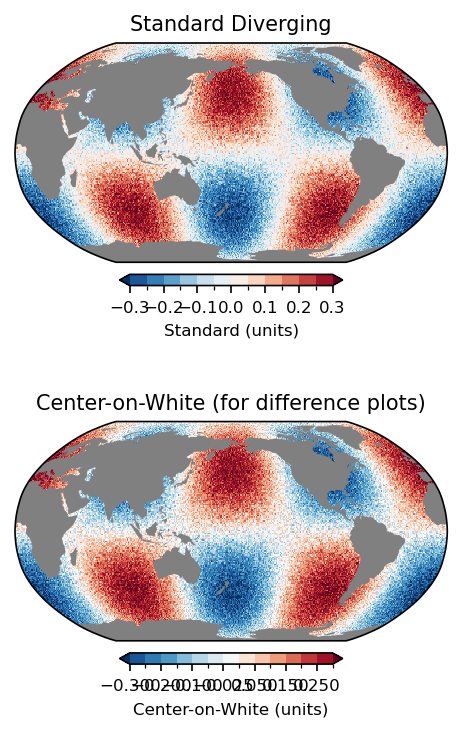
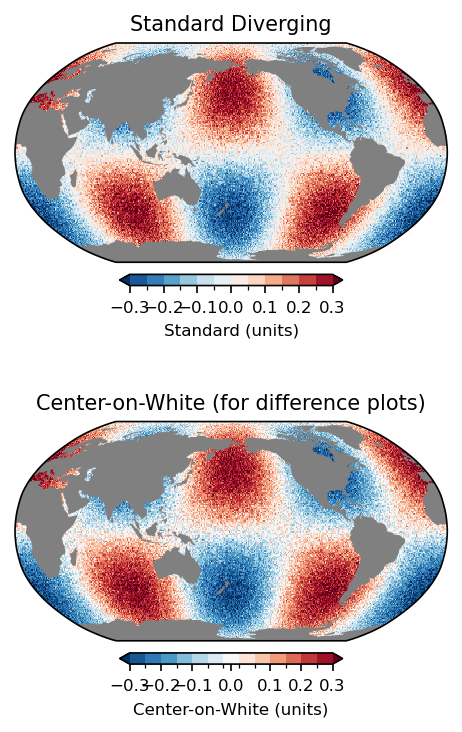
Auto-thin colorbar tick labels to prevent overlap
Add _thin_colorbar_ticks() helper that reduces displayed ticks to a
maximum count (default 7) using evenly-spaced values across the boundary
range for BoundaryNorm colorbars. Called automatically after colorbar
creation in add_colorbar() and bottom_colorbar(). Users can override
via max_ticks kwarg or disable with max_ticks=None.

Update guide figure scripts to use climplot.add_colorbar() instead of
direct plt.colorbar() calls and regenerate affected images.

Changed region(s): [[0.2424, 0.9016, 0.7576, 0.9617]]

diff --git a/src/climplot/panels.py b/src/climplot/panels.py
@@ -139,6 +139,36 @@ def add_panel_labels(
         )
 
 
+def _thin_colorbar_ticks(cbar, max_ticks=7):
+    """Reduce colorbar ticks to at most *max_ticks* evenly-spaced values.
+
+    The auto-generated ticks are checked first; if fewer than
+    *max_ticks* are present they are left untouched.  Otherwise, for
+    ``BoundaryNorm`` colorbars, tick positions are replaced with
+    *max_ticks* values evenly spaced between the first and last
+    boundary (rounded to remove floating-point noise).  For other norms,
+    auto-generated ticks are thinned by selecting evenly-spaced indices.
+    """
+    ticks = cbar.get_ticks()
+    if len(ticks) < max_ticks:
+        return
+
+    norm = cbar.mappable.norm
+    if hasattr(norm, "boundaries"):
+        boundaries = np.asarray(norm.boundaries)
+        # Use linspace to get clean, evenly-spaced values across the range
+        subset = np.linspace(boundaries[0], boundaries[-1], max_ticks)
+        # Round to remove floating-point noise (e.g. 5.55e-17 → 0.0)
+        span = abs(boundaries[-1] - boundaries[0])
+        decimals = max(0, int(-np.floor(np.log10(span / max_ticks))) + 2)
+        subset = np.round(subset, decimals)
+    else:
+        indices = np.round(np.linspace(0, len(ticks) - 1, max_ticks)).astype(int)
+        subset = ticks[indices]
+
+    cbar.set_ticks(subset)
+
+
 def add_colorbar(
     mappable,
     ax: plt.Axes,
@@ -175,6 +205,8 @@ def add_colorbar(
     >>> cs = ax.pcolormesh(lon, lat, data)
     >>> cbar = climplot.add_colorbar(cs, ax, 'Temperature (K)')
     """
+    max_ticks = kwargs.pop("max_ticks", 7)
+
     if orientation == "horizontal":
         cbar_kwargs = {"orientation": "horizontal", "pad": 0.05, "fraction": 0.046}
     else:
@@ -184,6 +216,9 @@ def add_colorbar(
     cbar = plt.colorbar(mappable, ax=ax, extend=extend, **cbar_kwargs)
     cbar.set_label(label, fontsize=8)
     cbar.ax.tick_params(labelsize=8)
+
+    if max_ticks is not None:
+        _thin_colorbar_ticks(cbar, max_ticks)
 
     return cbar
 
@@ -226,6 +261,8 @@ def bottom_colorbar(
     ...     cs = ax.pcolormesh(lon, lat, data)
     >>> cbar = climplot.bottom_colorbar(cs, fig, axes, 'SSH (m)')
     """
+    max_ticks = kwargs.pop("max_ticks", 7)
+
     # Flatten axes
     if hasattr(axes, "flatten"):
         axes_flat = axes.flatten()
@@ -243,6 +280,9 @@ def bottom_colorbar(
     )
     cbar.set_label(label, fontsize=8)
     cbar.ax.tick_params(labelsize=8)
+
+    if max_ticks is not None:
+        _thin_colorbar_ticks(cbar, max_ticks)
 
     return cbar
 

diff --git a/examples/generate_guide_figures.py b/examples/generate_guide_figures.py
@@ -222,10 +222,7 @@ def fig_good_vs_bad_intervals():
     cs1 = ax1.pcolormesh(lon, lat, data, cmap=bad_cmap, norm=bad_norm,
                          transform=ccrs.PlateCarree())
     add_land_feature(ax1)
-    cbar1 = plt.colorbar(cs1, ax=ax1, orientation="horizontal", pad=0.05,
-                         fraction=0.046, extend="both")
-    cbar1.set_label("Awkward intervals (0.07)", fontsize=8)
-    cbar1.ax.tick_params(labelsize=7)
+    cbar1 = climplot.add_colorbar(cs1, ax1, "Awkward intervals (0.07)", max_ticks=5)
     ax1.set_title("Avoid: awkward intervals (0.07)", fontsize=10,
                   color="#d62728")
 
@@ -320,10 +317,7 @@ def fig_pitfall_jet_vs_rdbu():
     cs1 = ax1.pcolormesh(lon, lat, data, cmap="jet", vmin=-0.3, vmax=0.3,
                          transform=ccrs.PlateCarree())
     add_land_feature(ax1)
-    cbar1 = plt.colorbar(cs1, ax=ax1, orientation="horizontal", pad=0.05,
-                         fraction=0.046)
-    cbar1.set_label("Continuous jet (avoid!)", fontsize=8)
-    cbar1.ax.tick_params(labelsize=7)
+    cbar1 = climplot.add_colorbar(cs1, ax1, "Continuous jet (avoid!)")
     ax1.set_title("Avoid: jet + continuous colormap", fontsize=10,
                   color="#d62728")
 
